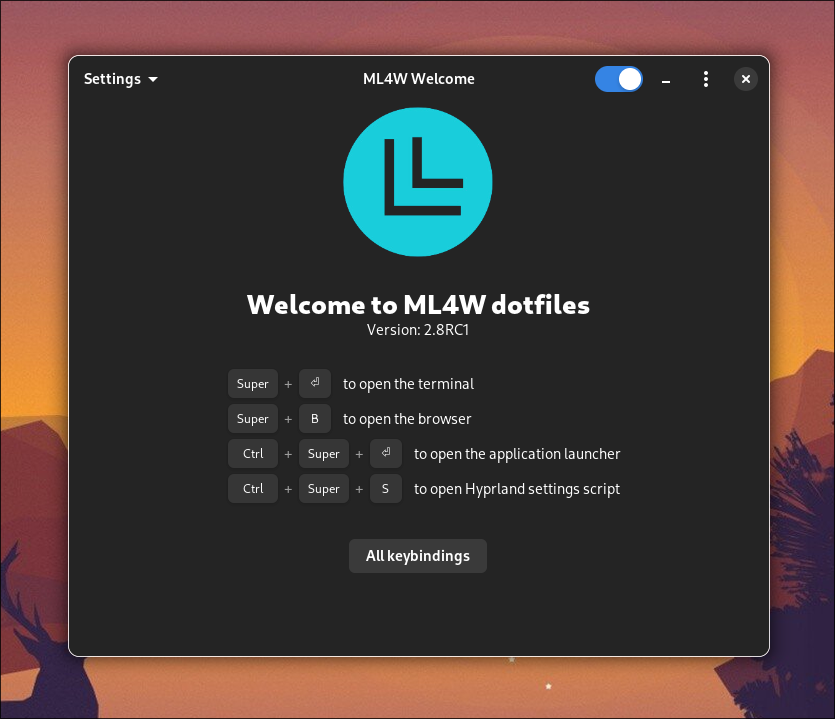
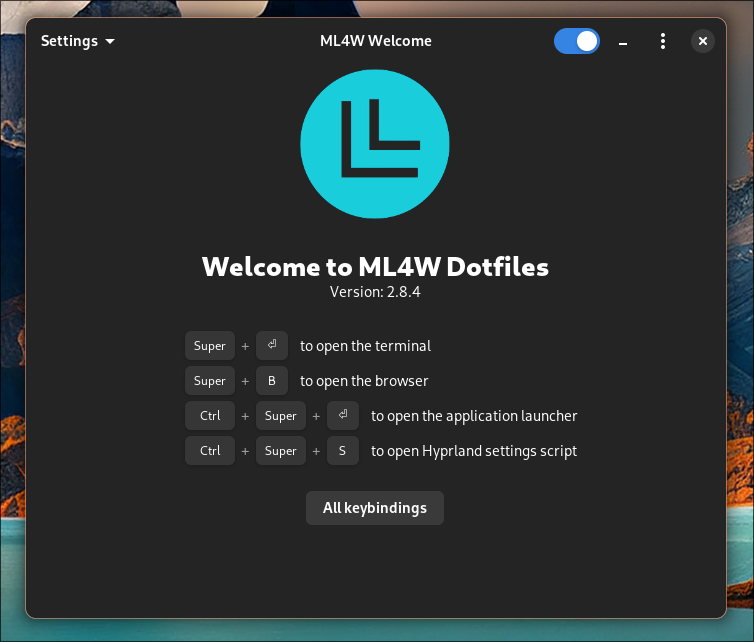
Updates

diff --git a/README.md b/README.md
@@ -1,10 +1,8 @@
-# ML4W Dotfiles 2.8.4 RC3
+# ML4W Dotfiles 2.8.4
 
 An advanced configuration of Hyprland and Qtile for Arch Linux based distributions. This package includes an installation script to install and setup the required components.
 
-[![Screenshot](screenshots/v283/screenshot-283-2.png "Title Text")](screenshots/v283/screenshot-283-2.png)
-
-You can find the overview video (Version 2.8.3) on Youtube: [ML4W Dotfiles 2.8.3](https://youtu.be/zM2AYue0o8s)
+[![Screenshot](screenshots/v284/screenshot-284-1.png "Title Text")](screenshots/v283/screenshot-284-1.png)
 
 The ML4W Dotfiles are available as 
 
@@ -184,7 +182,7 @@ All keybindings for Hyprland with right mouse click on Apps in waybar or here:
 
 # Hyprland
 
-<a href="https://gitlab.com/stephan-raabe/dotfiles/-/blob/main/screenshots/v28/screenshot-28-1.png?ref_type=heads" target="_blank"><img src="screenshots/v28/screenshot-28-1.png" /></a>
+<a href="https://gitlab.com/stephan-raabe/dotfiles/-/blob/main/screenshots/v284/screenshot-284-1.png?ref_type=heads" target="_blank"><img src="screenshots/v284/screenshot-284-1.png" /></a>
 
 <a href="https://gitlab.com/stephan-raabe/dotfiles/-/blob/main/screenshots/v28/screenshot-28-2.png?ref_type=heads" target="_blank"><img src="screenshots/v28/screenshot-28-2.png" /></a>
 
